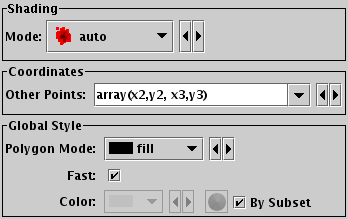
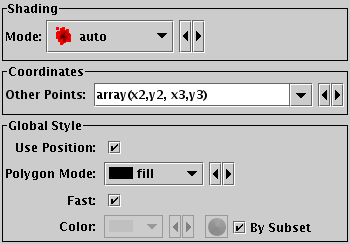
ttools: add Use Position toggle to Polygon plot form
You can now choose if you want to use the row reference position
as one of the entries in the polygon vertex list or not.
Being able to exclude it makes it easier to plot polygons
where the vertices are already available as an array but
the reference position is not one of the vertices.
Now you can just toggle UsePosition off, rather than having to
supply the first entry as a row position and entries 2..N for
the vertices.  Should have done this when the polygon form was
first introduced.

Changed region(s): [[0.0, 0.0, 1.0, 1.0]]

diff --git a/ttools/src/main/uk/ac/starlink/ttools/plot2/layer/PolygonOutliner.java b/ttools/src/main/uk/ac/starlink/ttools/plot2/layer/PolygonOutliner.java
@@ -293,14 +293,18 @@ public class PolygonOutliner extends PixOutliner {
      * (lon1,lat1, lon2,lat2, lon3,lat3).
      *
      * @param  arrayCoord   array-valued coordinate
+     * @param  includePos  if true, positional coordinate is included
+     *                     as the first vertex, if false it is ignored
      * @param  polyGlypher  polygon painter
      * @return  outliner
      */
     public static PolygonOutliner
             createArrayOutliner( FloatingArrayCoord arrayCoord,
+                                 boolean includePos,
                                  PolygonMode.Glypher polyGlypher ) {
         return new PolygonOutliner( polyGlypher,
-                                    new ArrayVertexReaderFactory( arrayCoord ));
+                                    new ArrayVertexReaderFactory( arrayCoord,
+                                                                  includePos ));
     }
 
     /**
@@ -433,19 +437,24 @@ public class PolygonOutliner extends PixOutliner {
     private static class ArrayVertexReaderFactory
             implements VertexReaderFactory {
         private final FloatingArrayCoord arrayCoord_;
+        private final boolean includePos_;
 
         /**
          * Constructor.
          *
          * @param  arrayCoord   array-valued coordinate
+         * @param  includePos  if true, positional coordinate is included
+         *                     as the first vertex, if false it is ignored
          */
-        ArrayVertexReaderFactory( FloatingArrayCoord arrayCoord ) {
+        ArrayVertexReaderFactory( FloatingArrayCoord arrayCoord,
+                                  boolean includePos ) {
             arrayCoord_ = arrayCoord;
+            includePos_ = includePos;
         }
 
         public VertexReader createVertexReader( DataGeom geom ) {
             if ( geom instanceof PlaneDataGeom ) {
-                return new ArrayVertexReader( arrayCoord_, geom ) {
+                return new ArrayVertexReader( arrayCoord_, geom, includePos_ ) {
                     boolean readArrayPos( double[] array, int icPos,
                                           double[] dpos ) {
                         double x = array[ icPos ];
@@ -462,7 +471,7 @@ public class PolygonOutliner extends PixOutliner {
                 };
             }
             else if ( geom instanceof CubeDataGeom ) {
-                return new ArrayVertexReader( arrayCoord_, geom ) {
+                return new ArrayVertexReader( arrayCoord_, geom, includePos_ ) {
                     boolean readArrayPos( double[] array, int icPos,
                                           double[] dpos ) {
                         double x = array[ icPos ];
@@ -484,7 +493,7 @@ public class PolygonOutliner extends PixOutliner {
             }
             else if ( geom instanceof SkyDataGeom ) {
                 final SkyDataGeom skyGeom = (SkyDataGeom) geom;
-                return new ArrayVertexReader( arrayCoord_, geom ) {
+                return new ArrayVertexReader( arrayCoord_, geom, includePos_ ) {
                     boolean readArrayPos( double[] array, int icPos,
                                           double[] dpos ) {
                         double latDeg = array[ icPos + 1 ];
@@ -518,6 +527,7 @@ public class PolygonOutliner extends PixOutliner {
         public int hashCode() {
             int code = 222389;
             code = 23 * code + arrayCoord_.hashCode();
+            code = 23 * code + ( includePos_ ? 17 : 29 );
             return code;
         }
 
@@ -525,7 +535,8 @@ public class PolygonOutliner extends PixOutliner {
         public boolean equals( Object o ) {
             if ( o instanceof ArrayVertexReaderFactory ) {
                 ArrayVertexReaderFactory other = (ArrayVertexReaderFactory) o;
-                return this.arrayCoord_.equals( other.arrayCoord_ );
+                return this.arrayCoord_.equals( other.arrayCoord_ )
+                    && this.includePos_ == other.includePos_;
             }
             else {
                 return false;
@@ -540,6 +551,7 @@ public class PolygonOutliner extends PixOutliner {
 
         private final FloatingArrayCoord arrayCoord_;
         private final DataGeom geom_;
+        private final boolean includePos_;
         private final int nuc_;
         private final int icPos0_;
         private final int icArray_;
@@ -549,10 +561,14 @@ public class PolygonOutliner extends PixOutliner {
          *
          * @param  arrayCoord  vertex array data coordinate
          * @param  geom      geometry for vertices
+         * @param  includePos  if true, positional coordinate is included
+         *                     as the first vertex, if false it is ignored
          */
-        ArrayVertexReader( FloatingArrayCoord arrayCoord, DataGeom geom ) {
+        ArrayVertexReader( FloatingArrayCoord arrayCoord, DataGeom geom,
+                           boolean includePos ) {
             arrayCoord_ = arrayCoord;
             geom_ = geom;
+            includePos_ = includePos;
 
             /* Work out how many elements of the array coordinate will
              * correspond to a single position. */
@@ -577,17 +593,31 @@ public class PolygonOutliner extends PixOutliner {
             final double[] array =
                 arrayCoord_.readArrayCoord( tuple, icArray_ );
             int nc = array.length;
-            final int nv = nc % nuc_ == 0 ? 1 + nc / nuc_ : 0;
-            return new VertexData() {
-                public int getVertexCount() {
-                    return nv;
-                }
-                public boolean readDataPos( int ipos, double[] dpos ) {
-                    return ipos == 0
-                         ? geom_.readDataPos( tuple, icPos0_, dpos )
-                         : readArrayPos( array, ( ipos - 1 ) * nuc_, dpos );
-                }
-            };
+            final int nv = nc % nuc_ == 0
+                         ? nc / nuc_ + ( includePos_ ? 1 : 0 )
+                         : 0;
+            if ( includePos_ ) {
+                return new VertexData() {
+                    public int getVertexCount() {
+                        return nv;
+                    }
+                    public boolean readDataPos( int ipos, double[] dpos ) {
+                        return ipos == 0
+                             ? geom_.readDataPos( tuple, icPos0_, dpos )
+                             : readArrayPos( array, ( ipos - 1 ) * nuc_, dpos );
+                    }
+                };
+            }
+            else {
+                return new VertexData() {
+                    public int getVertexCount() {
+                        return nv;
+                    }
+                    public boolean readDataPos( int ipos, double[] dpos ) {
+                        return readArrayPos( array, ipos * nuc_, dpos );
+                    }
+                };
+            }
         }
 
         /**

diff --git a/ttools/src/main/uk/ac/starlink/ttools/plot2/layer/PolygonForms.java b/ttools/src/main/uk/ac/starlink/ttools/plot2/layer/PolygonForms.java
@@ -60,10 +60,28 @@ public class PolygonForms {
             } )
         , true );
 
+    /** Reference position inclusion toggle key. */
+    public static final ConfigKey<Boolean> INCLUDEPOS_KEY =
+        new BooleanConfigKey(
+            new ConfigMeta( "usepos", "Use Position" )
+           .setShortDescription( "Include reference position in vertices?" )
+           .setXmlDescription( new String[] {
+                "<p>Determines whether the basic positional coordinates",
+                "are included as one of the polygon vertices or not.",
+                "The polygon has N+1 vertices if true,",
+                "or N vertices if false,",
+                "where N is the number of vertices supplied by the",
+                "array coordinate.",
+                "If false, the basic position is ignored for the purposes",
+                "of drawing the polygon.",
+                "</p>",
+            } )
+        , true );
+
     /** Coordinate for array coordinate, used with ARRAY. */
     public static final FloatingArrayCoord ARRAY_COORD =
         createArrayCoord();
-                            
+
     /**
      * Private constructor prevents instantiation.
      */
@@ -81,19 +99,19 @@ public class PolygonForms {
         meta.setShortDescription( "array of positions" );
         meta.setValueUsage( "array" );
         meta.setXmlDescription( new String[] {
-            "<p>Array of coordinates giving the points of the other vertices",
-            "(excluding the first one, which is defined by the positional",
-            "coordinates of this dataset)",
-            "that define the polygon to be drawn.",
+            "<p>Array of coordinates giving the points of the vertices",
+            "defining the polygon to be drawn.",
             "These coordinates are given as an interleaved array",
-            "by this parameter, e.g. (x2,y2, x3,y3, y4,y4).",
-            "Some expression language functions that can be useful",
+            "by this parameter, e.g. (x1,y1, x2,y2, y3,y3).",
+            "The basic position for the row being plotted",
+            "either is or is not included as the first vertex,",
+            "according to the setting of the",
+            "<code>" + INCLUDEPOS_KEY.getMeta().getShortName() + "</code>",
+            "parameter.",
+            "</p>",
+            "<p>Some expression language functions that can be useful",
             "when specifying this parameter are",
             "<code>array()</code> and <code>parseDoubles()</code>.",
-            "Although the first coordinate pair is supposed to be excluded",
-            "from this array, if it's more convenient to include it",
-            "in this list too, it doesn't usually affect the",
-            "appearance of the plot.",
             "</p>",
         } );
         return FloatingArrayCoord.createCoord( meta, true );
@@ -311,16 +329,19 @@ public class PolygonForms {
 
         public ConfigKey[] getConfigKeys() {
             return new ConfigKey[] {
+                INCLUDEPOS_KEY,
                 POLYMODE_KEY,
                 ISFAST_KEY,
             };
         }
 
         public Outliner createOutliner( ConfigMap config ) {
+            boolean includePos = config.get( INCLUDEPOS_KEY );
             PolygonMode polyMode = config.get( POLYMODE_KEY );
             boolean isFast = config.get( ISFAST_KEY ).booleanValue();
             PolygonMode.Glypher glypher = polyMode.getGlypher( isFast );
-            return PolygonOutliner.createArrayOutliner( ARRAY_COORD, glypher );
+            return PolygonOutliner
+                  .createArrayOutliner( ARRAY_COORD, includePos, glypher );
         }
     }
 }
